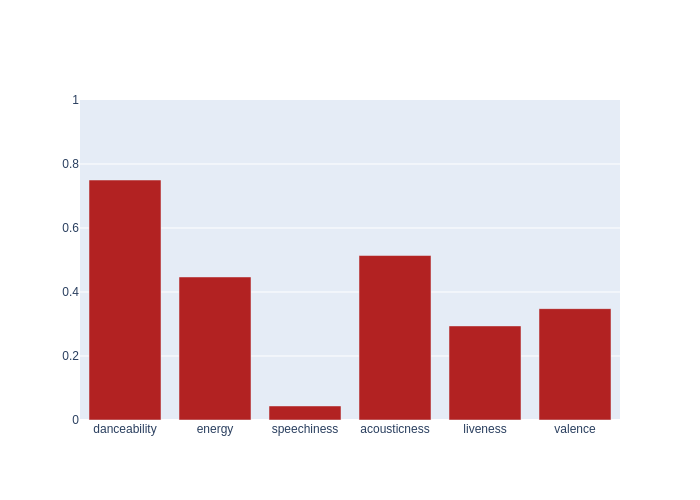
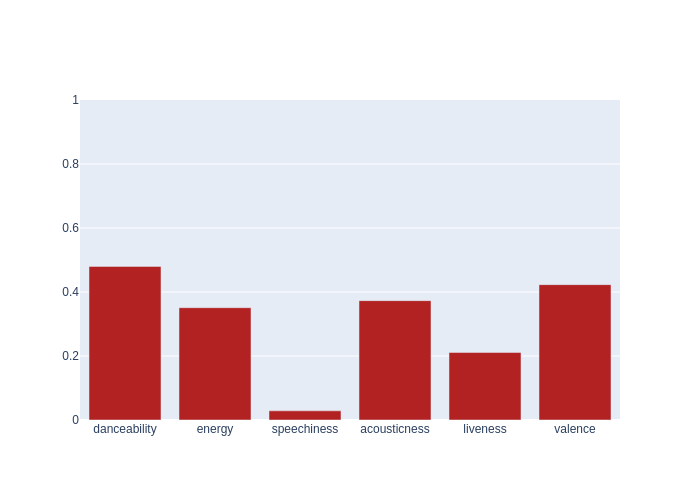
Automated README update

diff --git a/README.md b/README.md
@@ -4,7 +4,7 @@ Automated music metrics for fun, updated hourly.
 
 ## Spotify
 
-- currently listening to **tyDi - New Normal**
+- currently listening to **Bravo - 4EVER**
 
 - **879** liked songs
 - **143** playlists
